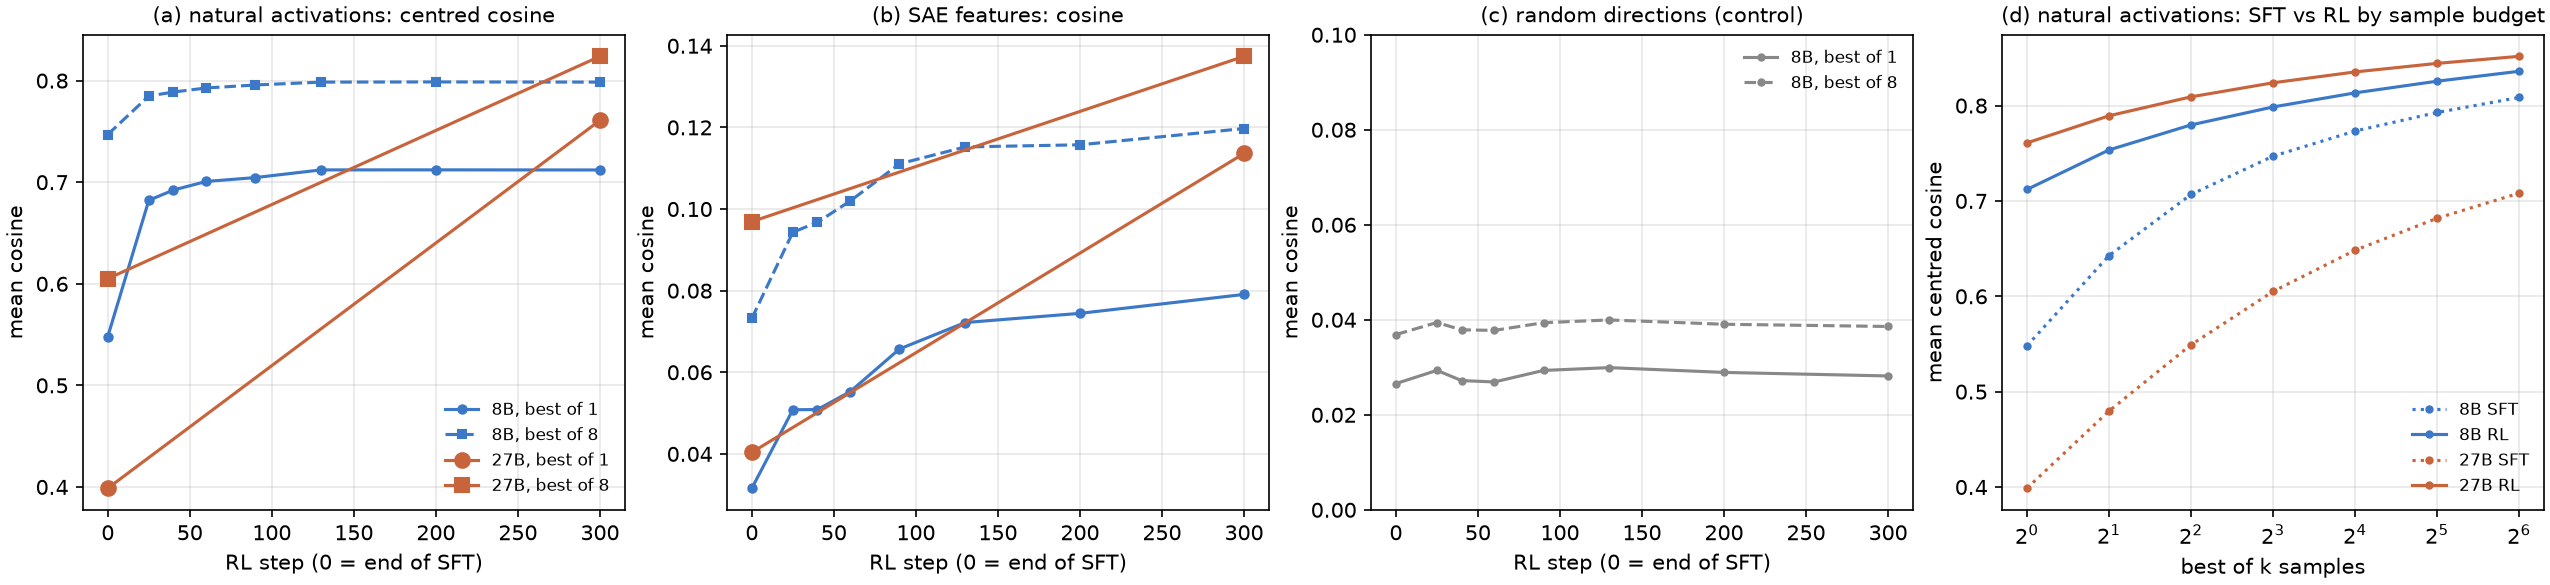
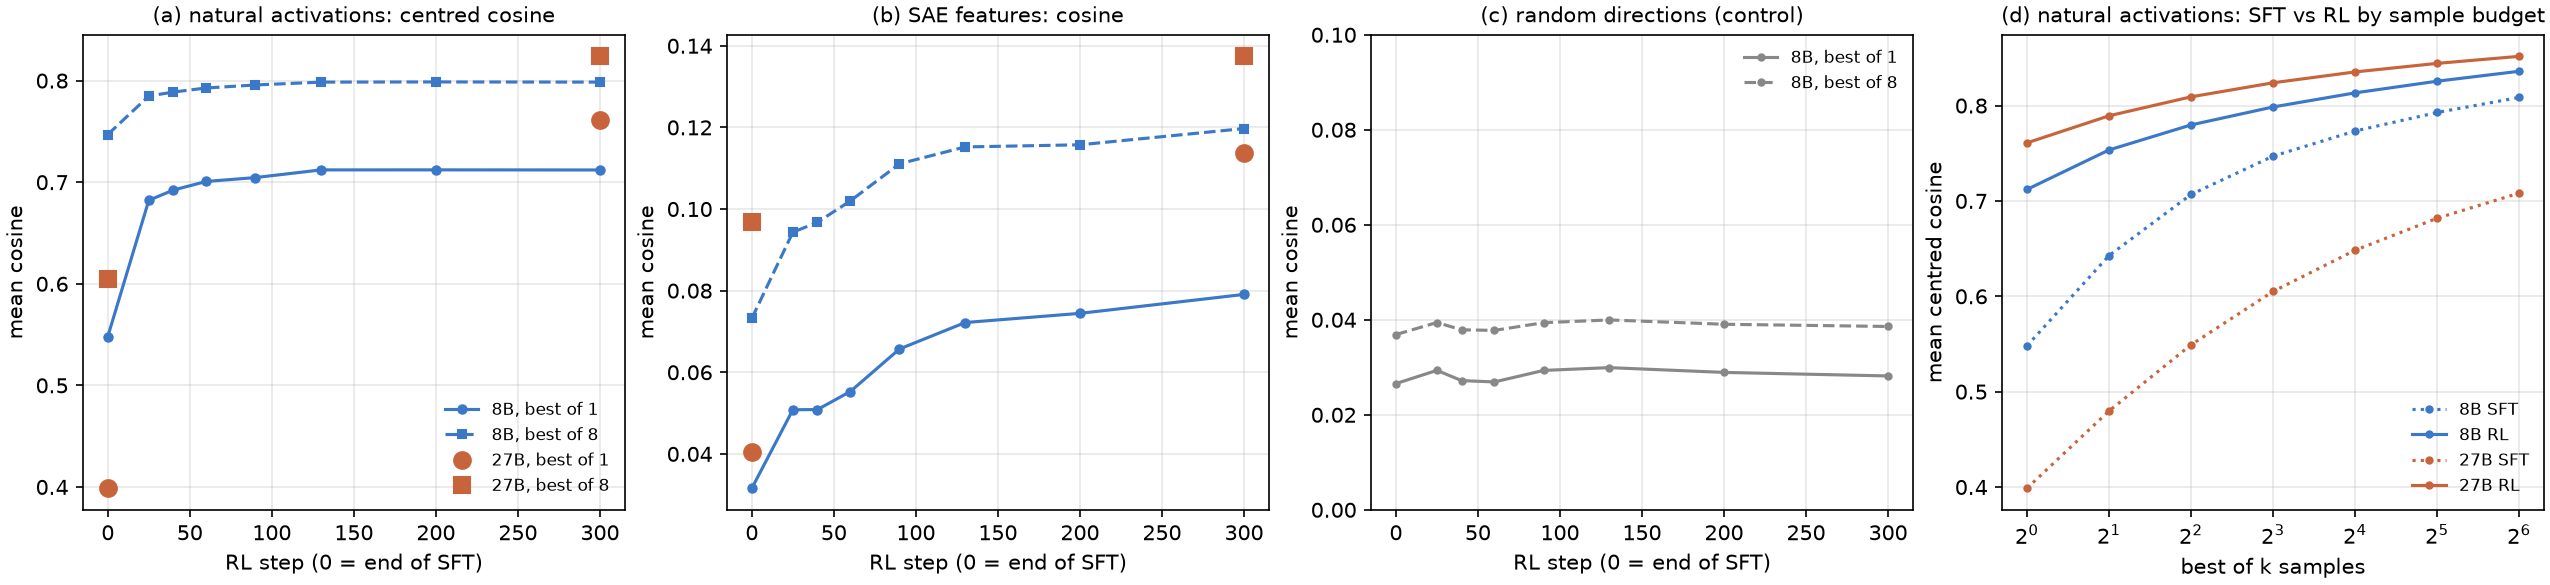
unified SFT->RL figure: 27B endpoints as unconnected points

diff --git a/verbalization/analysis/plot_unified_sl_rl.py b/verbalization/analysis/plot_unified_sl_rl.py
@@ -47,8 +47,8 @@ def main():
             st = sorted(data)
             for k, ls, mk in ((1, "-", "o"), (8, "--", "s")):
                 # the 27B has only its two endpoints: draw points, not a line through steps we never saw
-                ax[i].plot(st, [data[s][f"{fam}_{k}"] for s in st], ls if size == "8B" else "none", color=col,
-                           marker=mk, ms=4 if size == "8B" else 7, label=f"{size}, best of {k}")
+                ax[i].plot(st, [data[s][f"{fam}_{k}"] for s in st], color=col, linestyle=ls if size == "8B" else "none",
+                           marker=mk, ms=4 if size == "8B" else 8, label=f"{size}, best of {k}")
         ax[i].set_title(title, fontsize=10); ax[i].set_xlabel("RL step (0 = end of SFT)"); ax[i].set_ylabel("mean cosine")
         ax[i].grid(alpha=0.3)
     ax[0].legend(fontsize=8, frameon=False)
